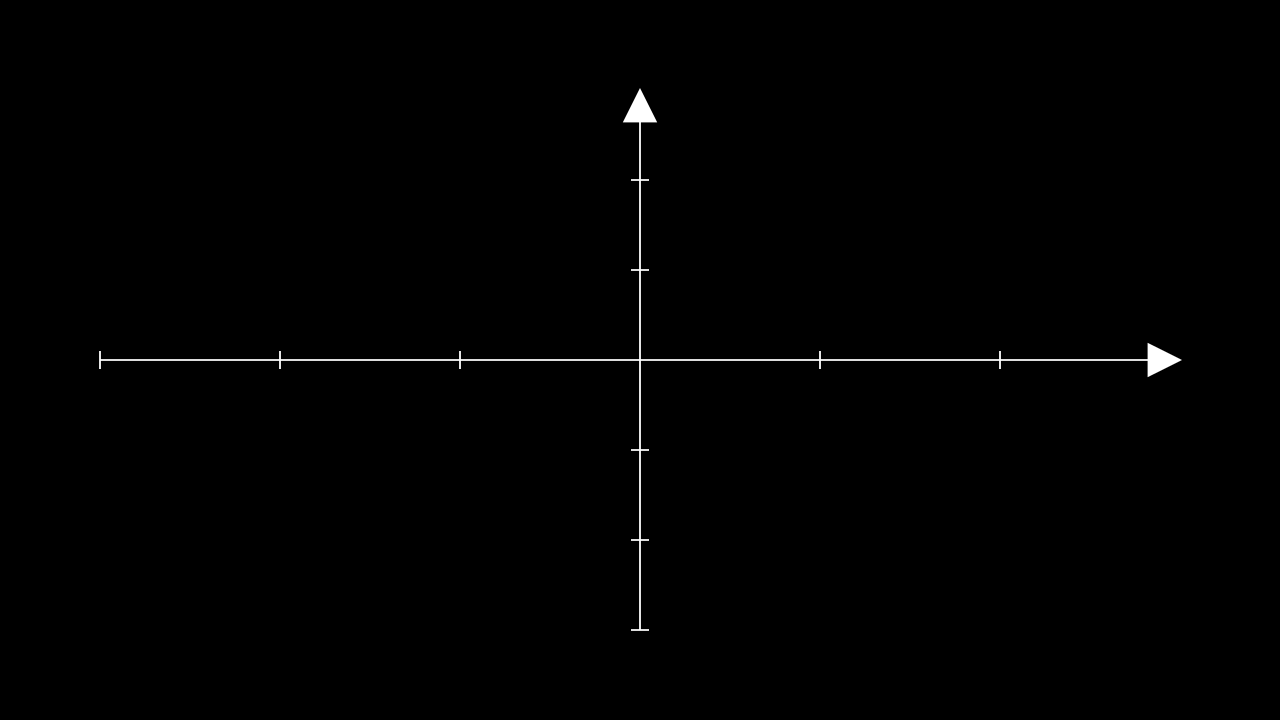
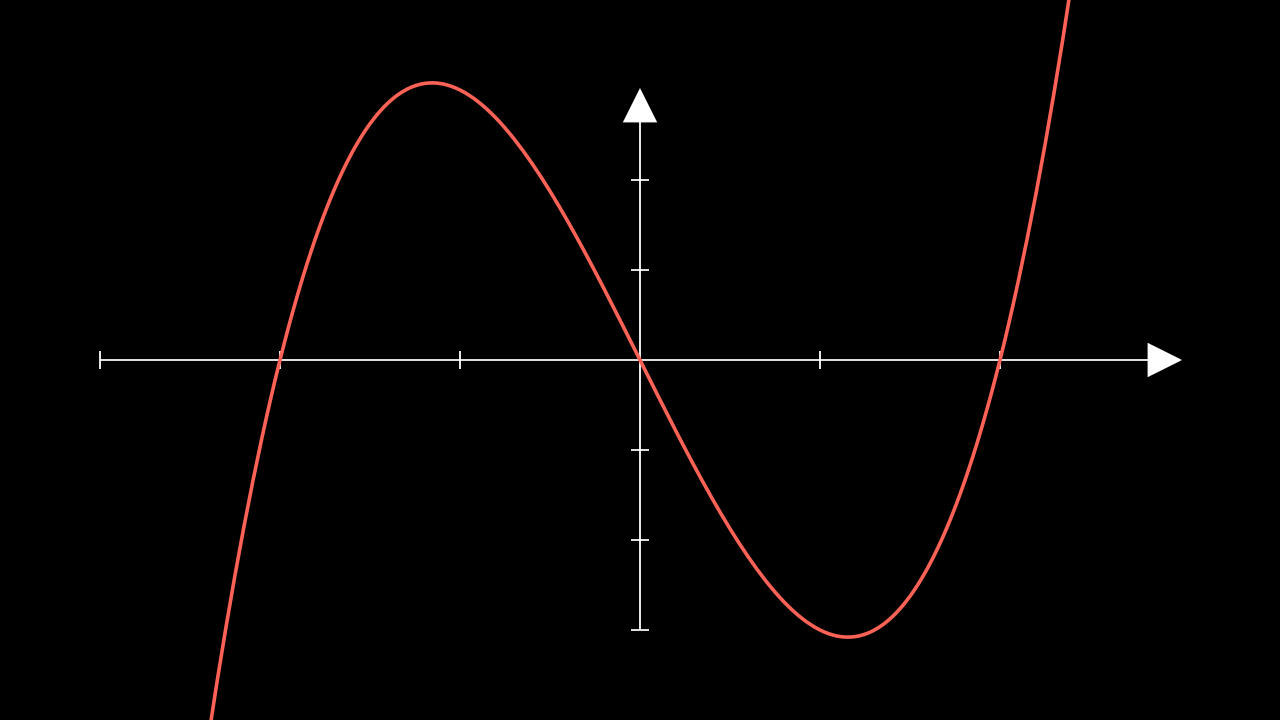
remove .gitignore

diff --git a/first_tutorial.py b/first_tutorial.py
@@ -3,4 +3,5 @@ from manim import *
 class SecondExample(Scene):
     def construct(self):
         ax = Axes(x_range=(-3, 3), y_range=(-3, 3))
-        self.add(ax)
+        curve = ax.plot(lambda x: (x+2)*x*(x-2), color=RED)
+        self.add(ax, curve)
